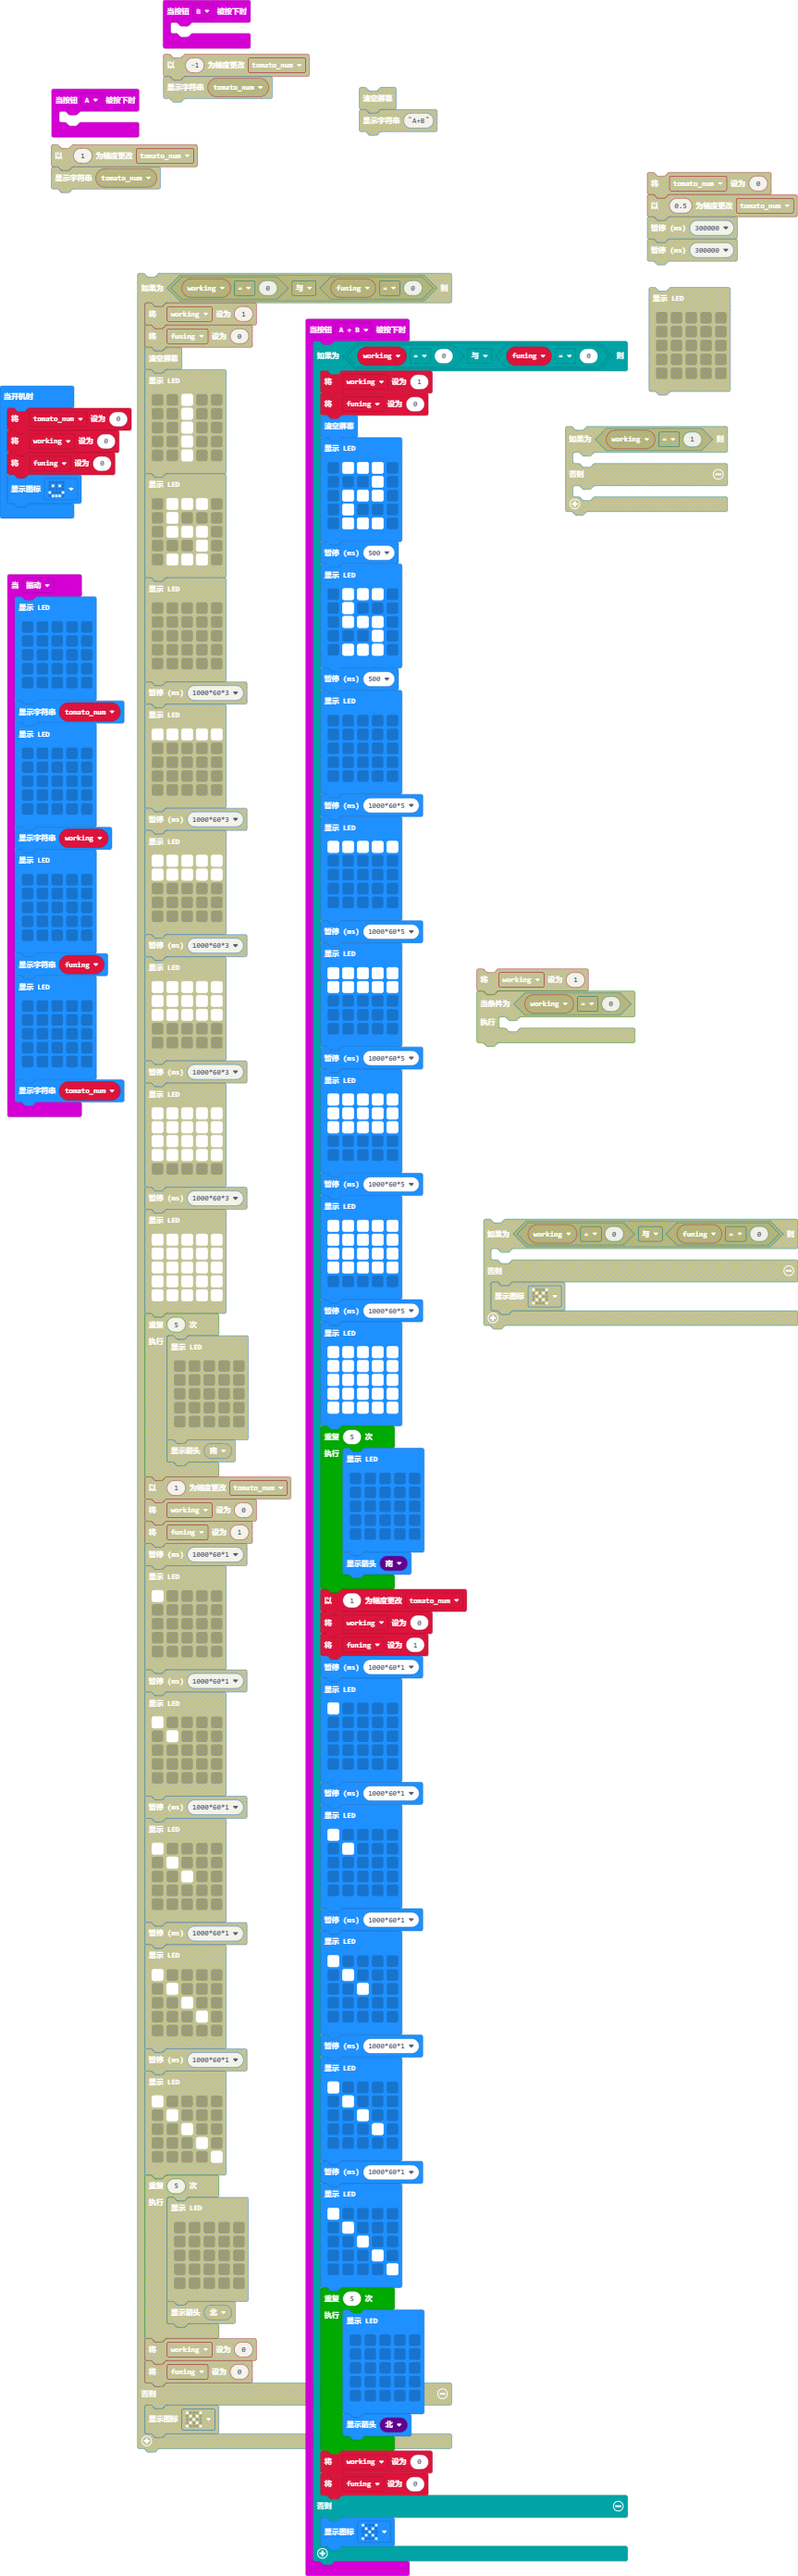
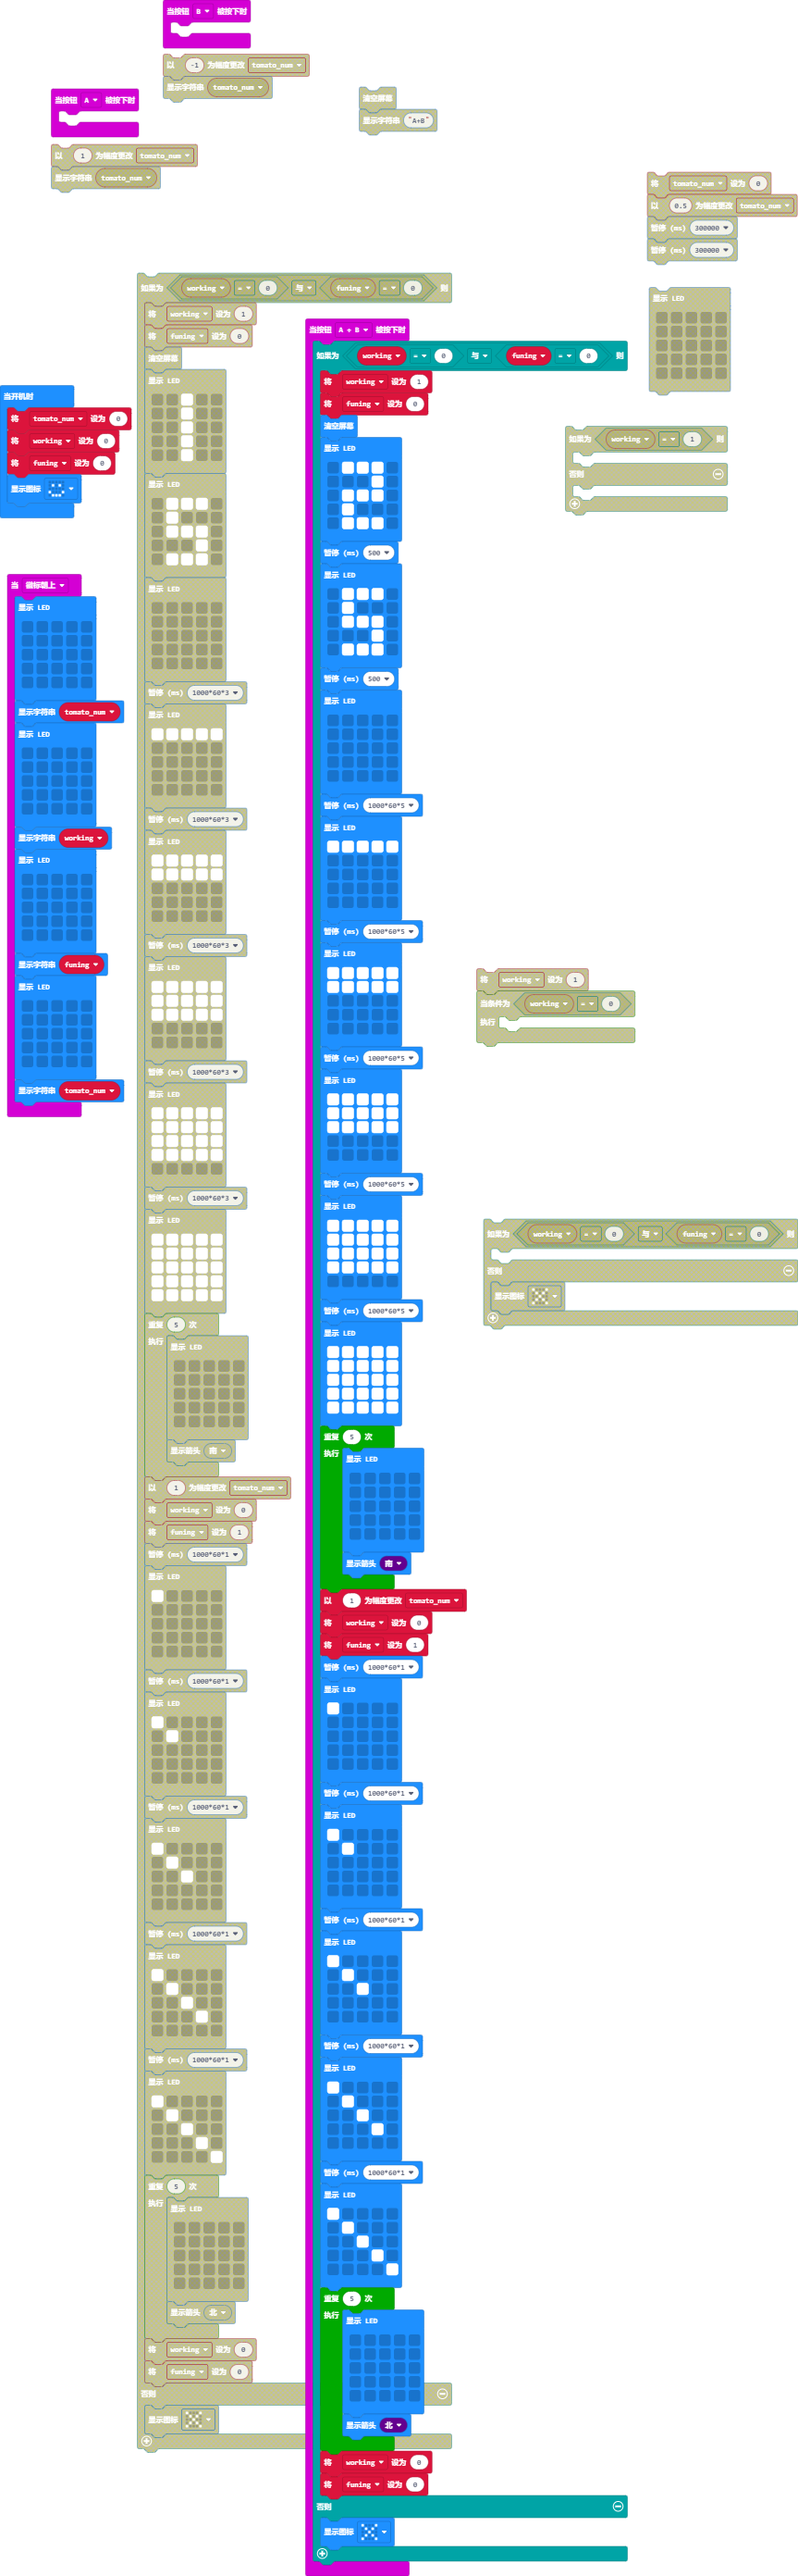
s

diff --git a/main.ts b/main.ts
@@ -1,7 +1,7 @@
 input.onButtonPressed(Button.A, function () {
 	
 })
-input.onGesture(Gesture.Shake, function () {
+input.onGesture(Gesture.LogoUp, function () {
     basic.showLeds(`
         . . . . .
         . . . . .
